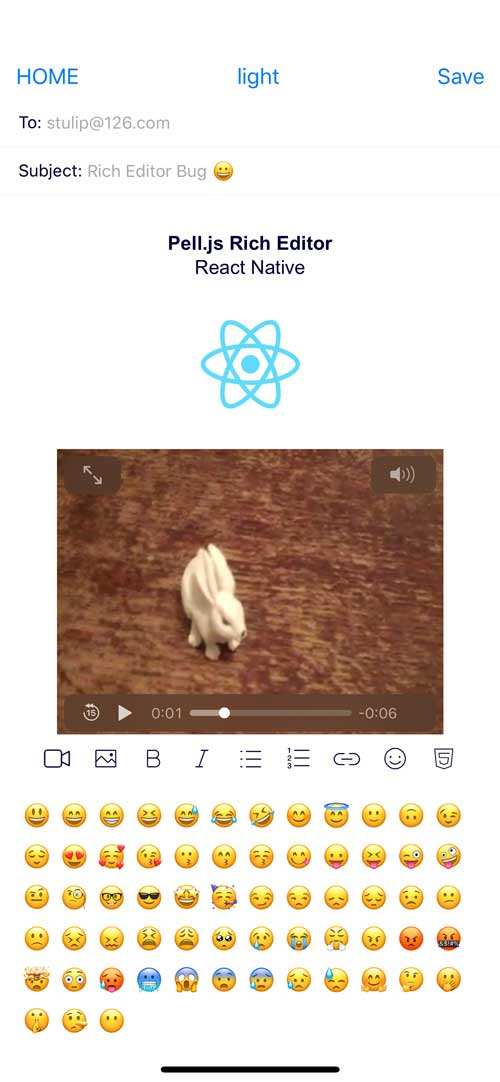
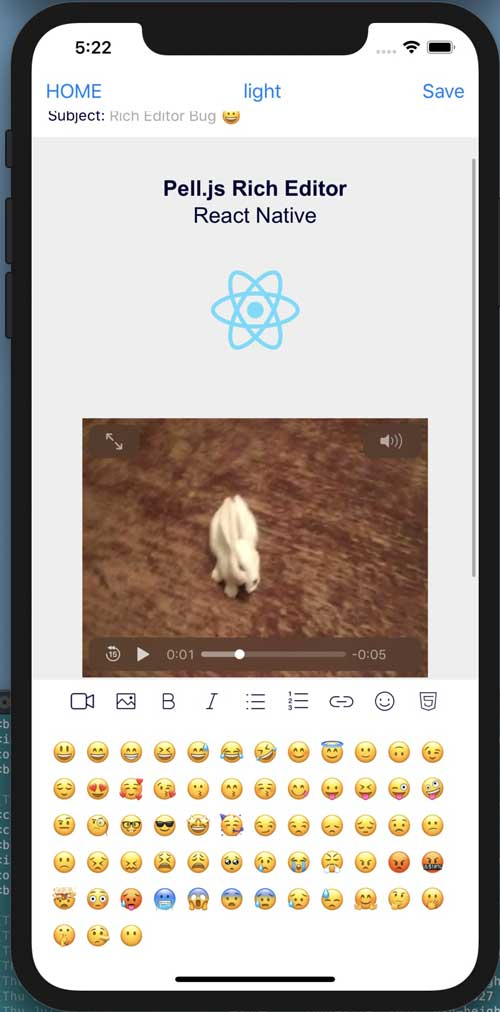
example StatusBar dark or light

diff --git a/examples/src/example.js b/examples/src/example.js
@@ -5,6 +5,7 @@
  */
 import React from 'react';
 import {
+    StatusBar,
     Appearance,
     Button,
     Keyboard,
@@ -180,6 +181,7 @@ class Example extends React.Component {
         const themeBg = {backgroundColor};
         return (
             <SafeAreaView style={[styles.container, themeBg]}>
+                <StatusBar barStyle={theme !== 'dark' ? 'dark-content' : 'light-content'} />
                 <InsertLinkModal
                     placeholderColor={placeholderColor}
                     color={color}
